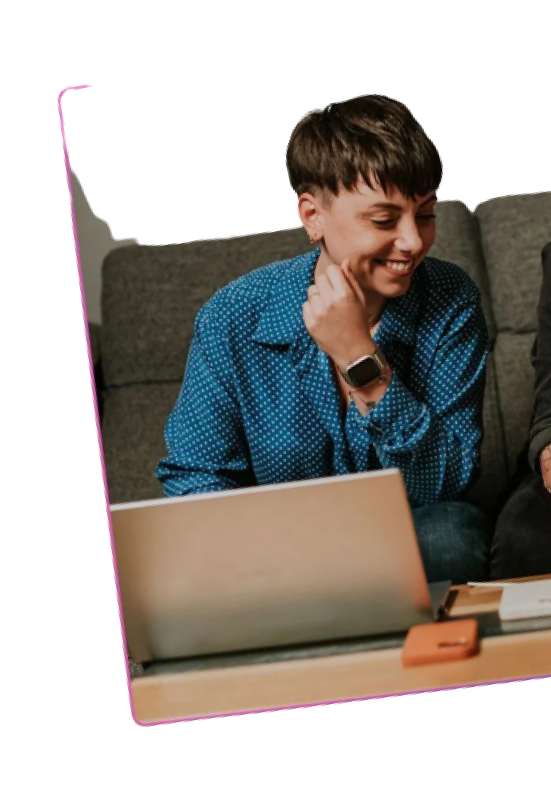
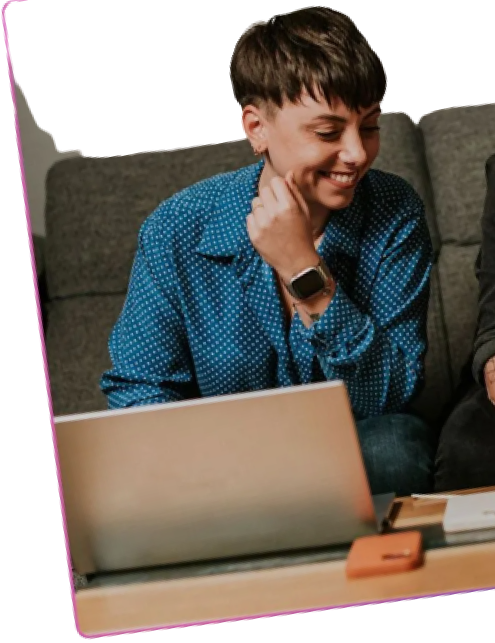
events page and hero section

diff --git a/src/styles/HeroSection.module.css b/src/styles/HeroSection.module.css
@@ -63,7 +63,7 @@
     padding-bottom: 5vw;
 }
 
-@media screen and (max-width:900px) {
+@media screen and (max-width:1024px) {
     .sae_intro{
         height: 50vw;
     }
@@ -73,6 +73,14 @@
         padding-right: 4vw;
         line-height: 3vw;
     }
+    .sae_headings {
+        font-size: 56px;
+        margin-top: 24px;
+    }
+    .sae_intro .social_media a img {
+        width: 33px; 
+        height: 33px; 
+      }
 }
 
 @media screen and (max-width:680px) {
@@ -80,7 +88,7 @@
         height: 60vw;
     }
     .sae_headings {
-        font-size: 40px;
+        font-size: 52px;
         margin-top: 24px;
     }
     .sae_long_text{
@@ -89,8 +97,8 @@
         padding-right: 4vw;
         line-height: 3.5vw;
     }
-    /* .social_media {
-        height: 10px;
+    /* .sae_headings{
+        font-size: 60px;
     } */
     
 }
@@ -104,7 +112,31 @@
 
 @media screen and (max-width:450px) {
     .sae_intro{
-        height: 85vw;
+        height: 80vw;
         
     }
+    .sae_headings {
+        font-size: 44pxpx;
+        margin-top: 24px;
+    }
+    .sae_intro .social_media a img {
+        width: 33px; 
+        height: 33px; 
+      }
+}
+
+@media screen and (max-width:400px) {
+    .sae_intro{
+        height: 95vw;
+        
+    }
+
+}
+
+@media screen and (max-width:300px) {
+    .sae_intro{
+        height: 105vw;
+        
+    }
+
 }

diff --git a/src/styles/AboutTeam.module.css b/src/styles/AboutTeam.module.css
@@ -5,6 +5,7 @@
     /* Adjust the gap between columns as needed */
     padding: 20px;
     /* Add padding as needed */
+    /* position: relative; */
 }
 
 .about_image1 {
@@ -12,6 +13,11 @@
     grid-row: 1;
     display: flex;
     align-items: center;
+    
+}
+
+.about_image1 img {
+    max-width: 100%; /* Ensure the image doesn't exceed its container */
 }
 
 .about_team_text {
@@ -28,8 +34,8 @@
 
 .about_team_heading {
     color: #e25420;
-    font-family: "Inter-BoldItalic", Helvetica;
-    font-size: 90px;
+    font-family: 'Outfit';
+    font-size: 70px;
     font-style: italic;
     font-weight: 700;
     left: 0;
@@ -40,10 +46,11 @@
 }
 
 .about_team_desc {
-    font-family: "poppins";
+    /* font-family: 'poppins'; */
     text-align: center;
     padding-left: 40px;
     padding-right: 40px;
+    font-size: x-large;
 }
 
 .about_image2 {
@@ -51,6 +58,7 @@
     grid-row: 1;
     display: flex;
     align-items: center;
+    translate: 4;
 }
 
 .about_image1 img,
@@ -59,6 +67,15 @@
     max-height: 100%;
     display: block;
     margin: 0 auto;
+    transform: translateX(-20px);
+}
+
+.about_image2 img{
+    max-width: 100%;
+    max-height: 100%;
+    display: block;
+    margin: 0 auto;
+    transform: translateX(20px);
 }
 
 /* Media Query for screen width greater than 1200px */

diff --git a/src/styles/About.module.css b/src/styles/About.module.css
@@ -122,7 +122,7 @@
 }
 
 .fifth_section_heading {
-  font-size: calc(1.5rem + 1vw);
+  font-size: calc(1.5rem);
   border-top: 5px solid transparent;
   border-image: linear-gradient(to right, rgb(242, 84, 2) 4%, transparent 4%) 1;
 }
@@ -130,7 +130,7 @@
 .helm {
   display: grid;
   grid-template-columns: repeat(3, 1fr);
-  gap: 50px;
+  gap: 9.5vw;
   /* Adjust as needed */
   margin: 5vw auto;
   width: min-content;
@@ -139,7 +139,7 @@
 .helm2 {
   display: grid;
   grid-template-columns: repeat(3, 1fr);
-  gap: 50px;
+  gap: 9.5vw;
   /* Adjust as needed */
   margin: 5vw auto;
   width: min-content;
@@ -237,3 +237,5 @@
     display: none;
   }
 }
+
+
